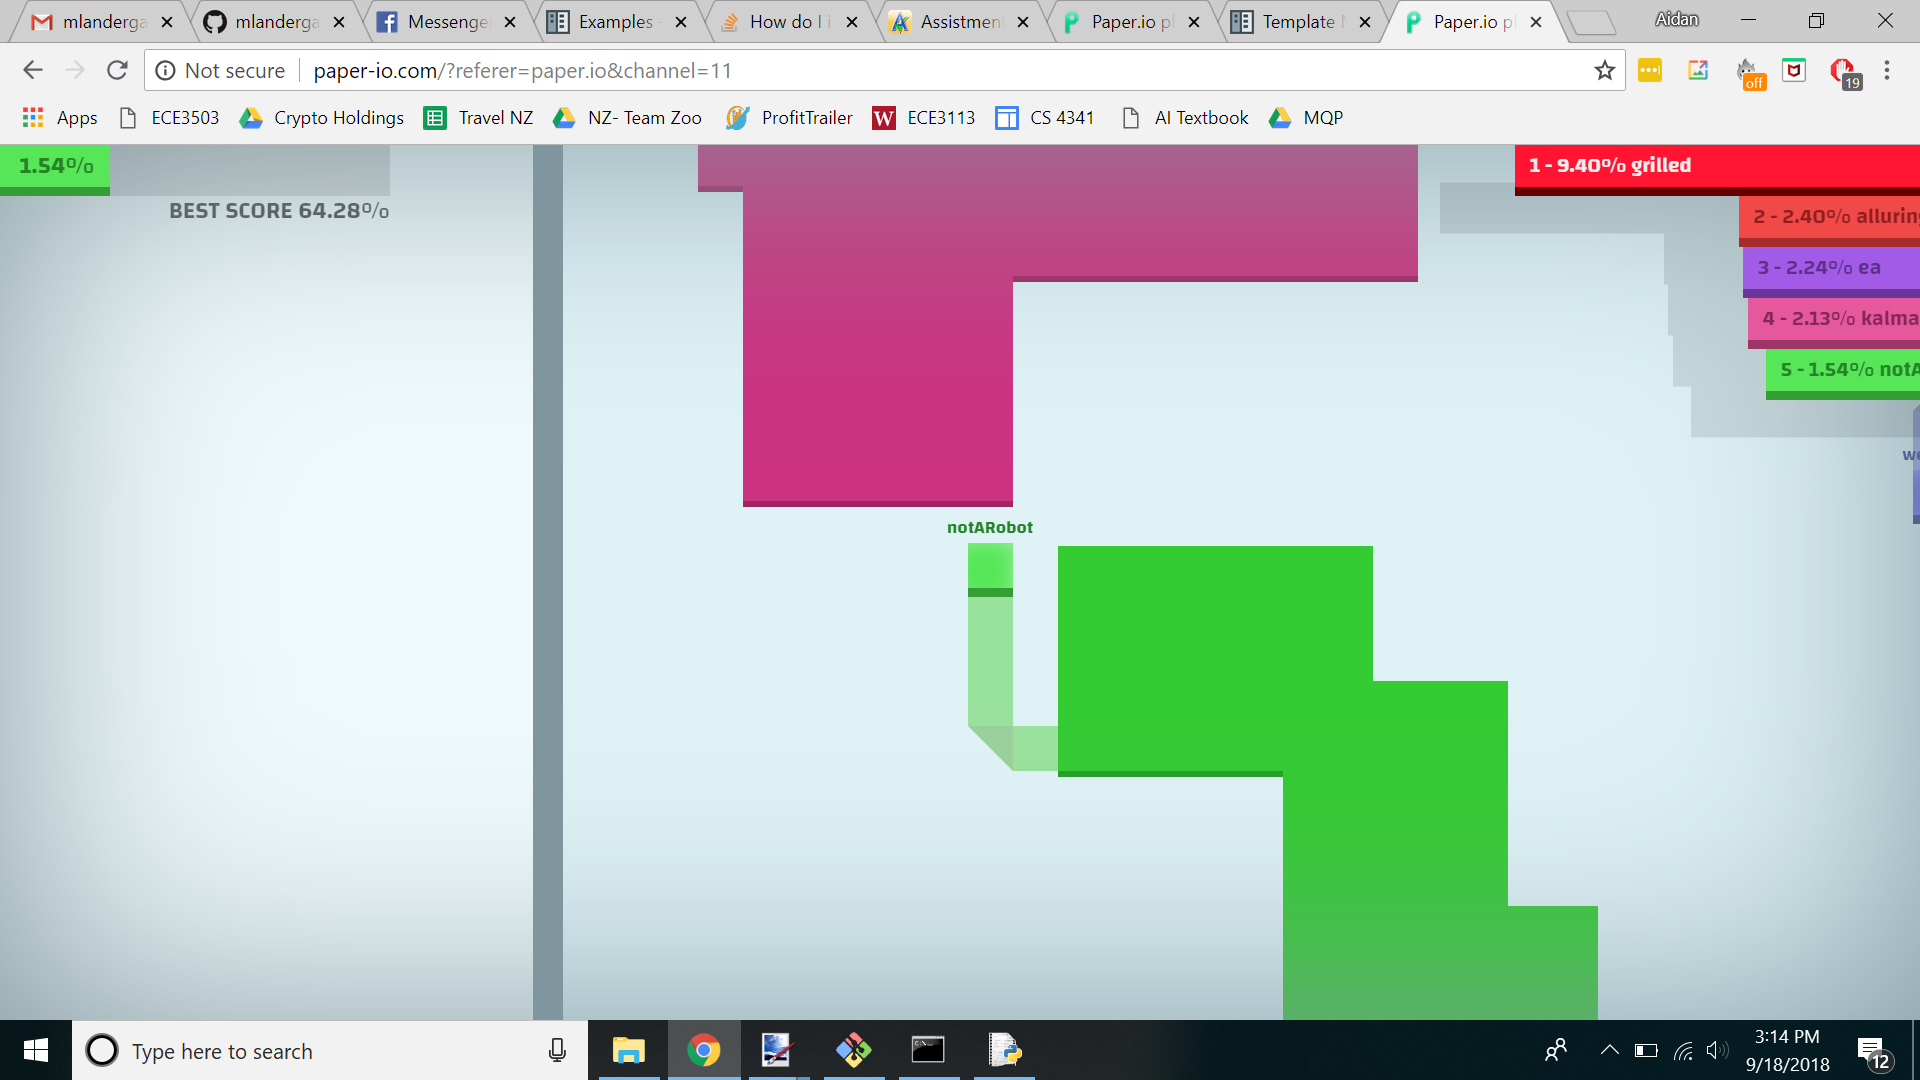
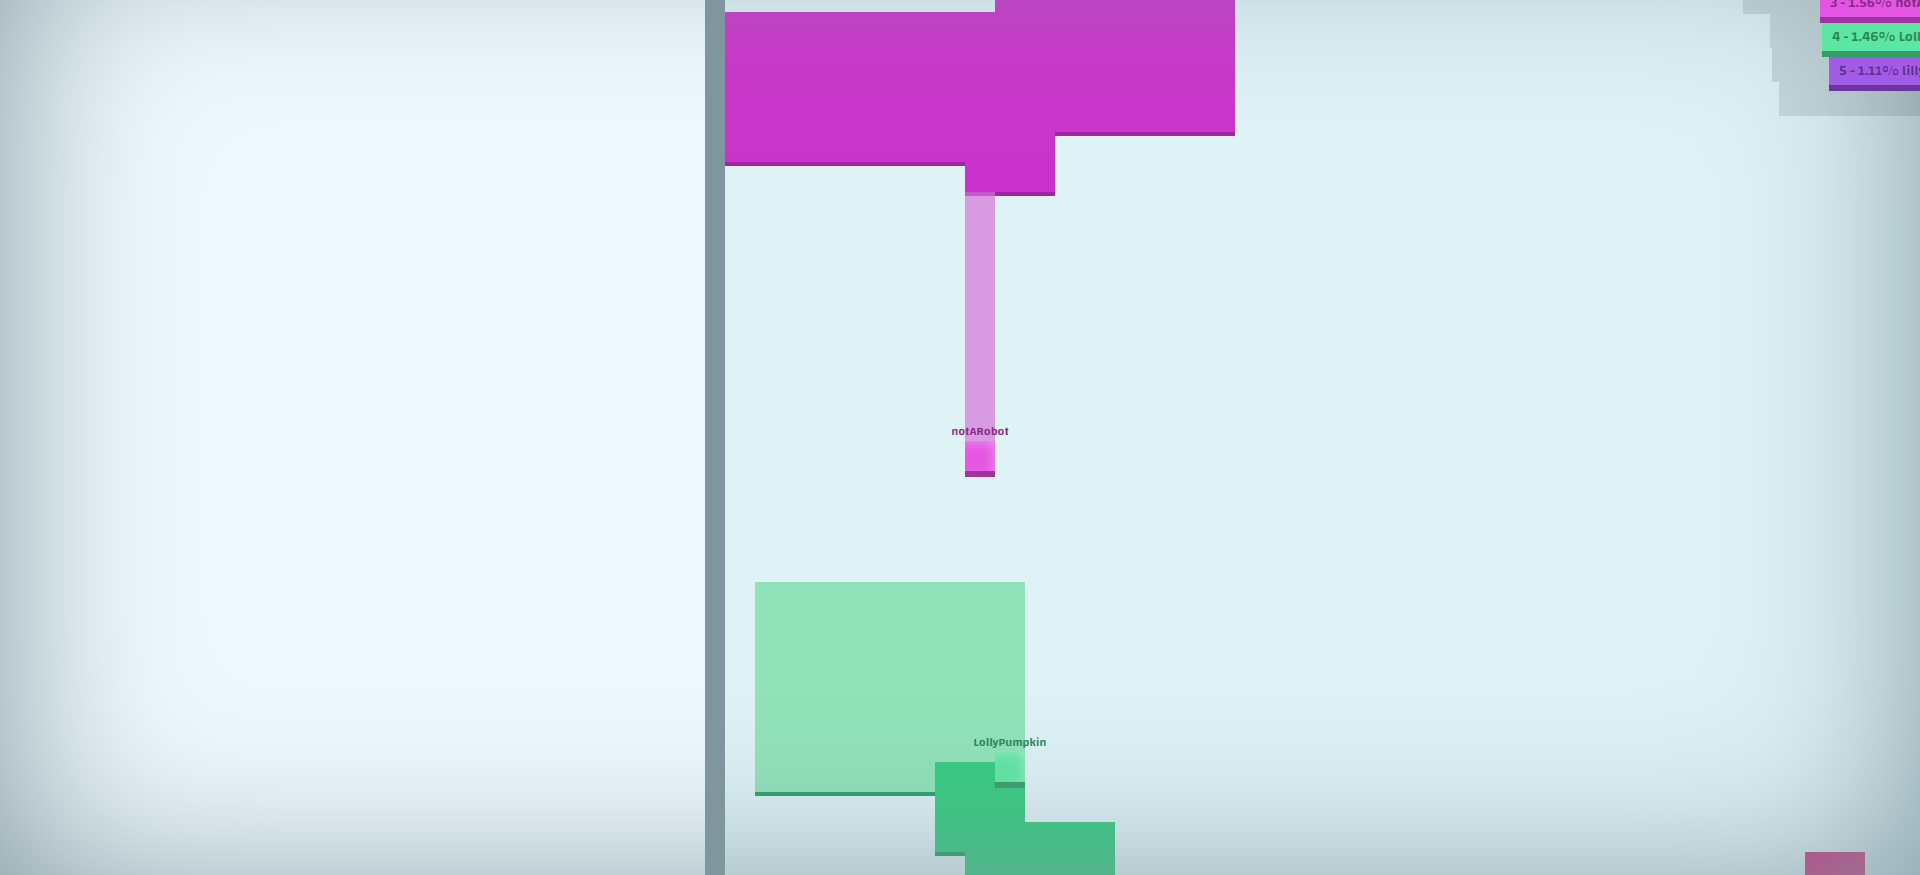
Added file for storing color thresholds, added xlsx for analyzing colors, added io_vision file which applies all masks done so far.

diff --git a/io_vision.py b/io_vision.py
@@ -1,0 +1,55 @@
+import numpy as np
+import cv2
+import os
+from mss import mss
+import time
+import color_thresholds as th
+
+wall_color = (0, 0, 255, 0) # RGB Color
+
+def init():
+    global sct, scoreboard_mask
+    sct = mss()
+
+    scoreboard_mask = cv2.imread(os.getcwd() + '\\' + 'scoreboard_mask.png', 0)
+    #scoreboard_mask = 255 - cv2.cvtColor(scoreboard_mask, cv2.COLOR_RGB2BGR)
+    #b_channel, g_channel, r_channel = cv2.split(scoreboard_mask)
+    #alpha_channel = np.ones(b_channel.shape, dtype=b_channel.dtype) * 50
+    #scoreboard_mask = cv2.merge((b_channel, g_channel, r_channel, alpha_channel))
+
+def run():
+    # (X, Y, Width, Height) Box to capture
+    mon = {'top': 65, 'left': 0, 'width': 1920, 'height': 975}
+
+    while 1:
+        start_time = time.time()
+        img = np.array(sct.grab(mon))
+
+        hsv = cv2.cvtColor(img, cv2.COLOR_BGR2HSV)
+        background_mask = 255 - cv2.inRange(hsv, th.lower[th.BACKGROUND], th.upper[th.BACKGROUND])
+        wall_mask = 255 - cv2.inRange(hsv, th.lower[th.WALL], th.upper[th.WALL])
+
+        result = cv2.bitwise_and(img, img, mask=scoreboard_mask)
+
+        result = cv2.bitwise_and(result, result, mask=wall_mask)
+        result = cv2.bitwise_and(result, result, mask=background_mask)
+
+        indices = np.where(wall_mask==0)
+        result[indices[0], indices[1], :] = wall_color # Red Walls
+
+        cv2.imshow('Example', result)
+
+        
+        #Press 'Q' to quit
+        if cv2.waitKey(25) & 0xFF == ord('q'):
+            cv2.destroyAllWindows()
+            break
+        # Print the frame rate (I get about 20 fps)
+       # print (1 / (time.time() - start_time))
+
+
+
+
+if __name__ == "__main__":
+    init()
+    run()

diff --git a/screen_mask.py b/screen_mask.py
@@ -1,15 +1,32 @@
 import os
 import cv2
+import numpy as np
 
 image_name = 'example_screen.png'
-scale  = 1
+
+wall_color = (0, 0, 255)
+
+color_background_lower = np.array([90, 10, 175], dtype = "uint16")
+color_background_upper = np.array([100, 40, 255], dtype = "uint16")
+
+color_wall_lower = np.array([97, 47, 158], dtype = "uint16")
+color_wall_upper = np.array([98, 48, 158], dtype = "uint16")
 
 def run():
     file_name = os.getcwd() + '\\' + image_name
     img = cv2.imread(file_name)
 
-    img = scale_image(img, 50)
-    cv2.imshow('Example', img)
+    #img = scale_image(img, 50)
+    hsv = cv2.cvtColor(img, cv2.COLOR_BGR2HSV)
+    background_mask = cv2.inRange(hsv, color_background_lower, color_background_upper)
+    wall_mask = 255 - cv2.inRange(hsv, color_wall_lower, color_wall_upper)
+
+    result = cv2.bitwise_and(img, img, mask=wall_mask)
+    indices = np.where(wall_mask==0)
+    result[indices[0], indices[1], :] = wall_color
+   # result = cv2.bitwise_and(result, result, mask=background_mask)
+
+    cv2.imshow('Example', result)
 
 
 def scale_image(image, scale_percent):

diff --git a/screen_capture.py b/screen_capture.py
@@ -7,16 +7,14 @@ import time
 You Need mms, numpy, and opencv-python
 '''
 
-
 def init():
-    pass
+    global sct
+    sct = mss()
 
 
 def run():
     # (X, Y, Width, Height) Box to capture
     mon = {'top': 145, 'left': 0, 'width': 1920, 'height': 875}
-
-    sct = mss()
 
     while 1:
         start_time = time.time()
@@ -27,11 +25,11 @@ def run():
             cv2.destroyAllWindows()
             break
         # Print the frame rate (I get about 20 fps)
-        print (1 / (time.time() - start_time))
+       # print (1 / (time.time() - start_time))
 
 
 
 
-if __main__ == "__main__":
+if __name__ == "__main__":
     init()
     run()

diff --git a/color_thresholds.py b/color_thresholds.py
@@ -1,0 +1,14 @@
+import numpy as np
+
+BACKGROUND = 0
+WALL = 1
+
+lower = {
+        BACKGROUND : np.array([90, 10, 175], dtype = "uint16"),
+        WALL : np.array([97, 47, 158], dtype = "uint16")
+        }
+
+upper = {
+    BACKGROUND : np.array([100, 40, 255], dtype = "uint16"),
+    WALL : np.array([98, 48, 158], dtype = "uint16")
+    }
